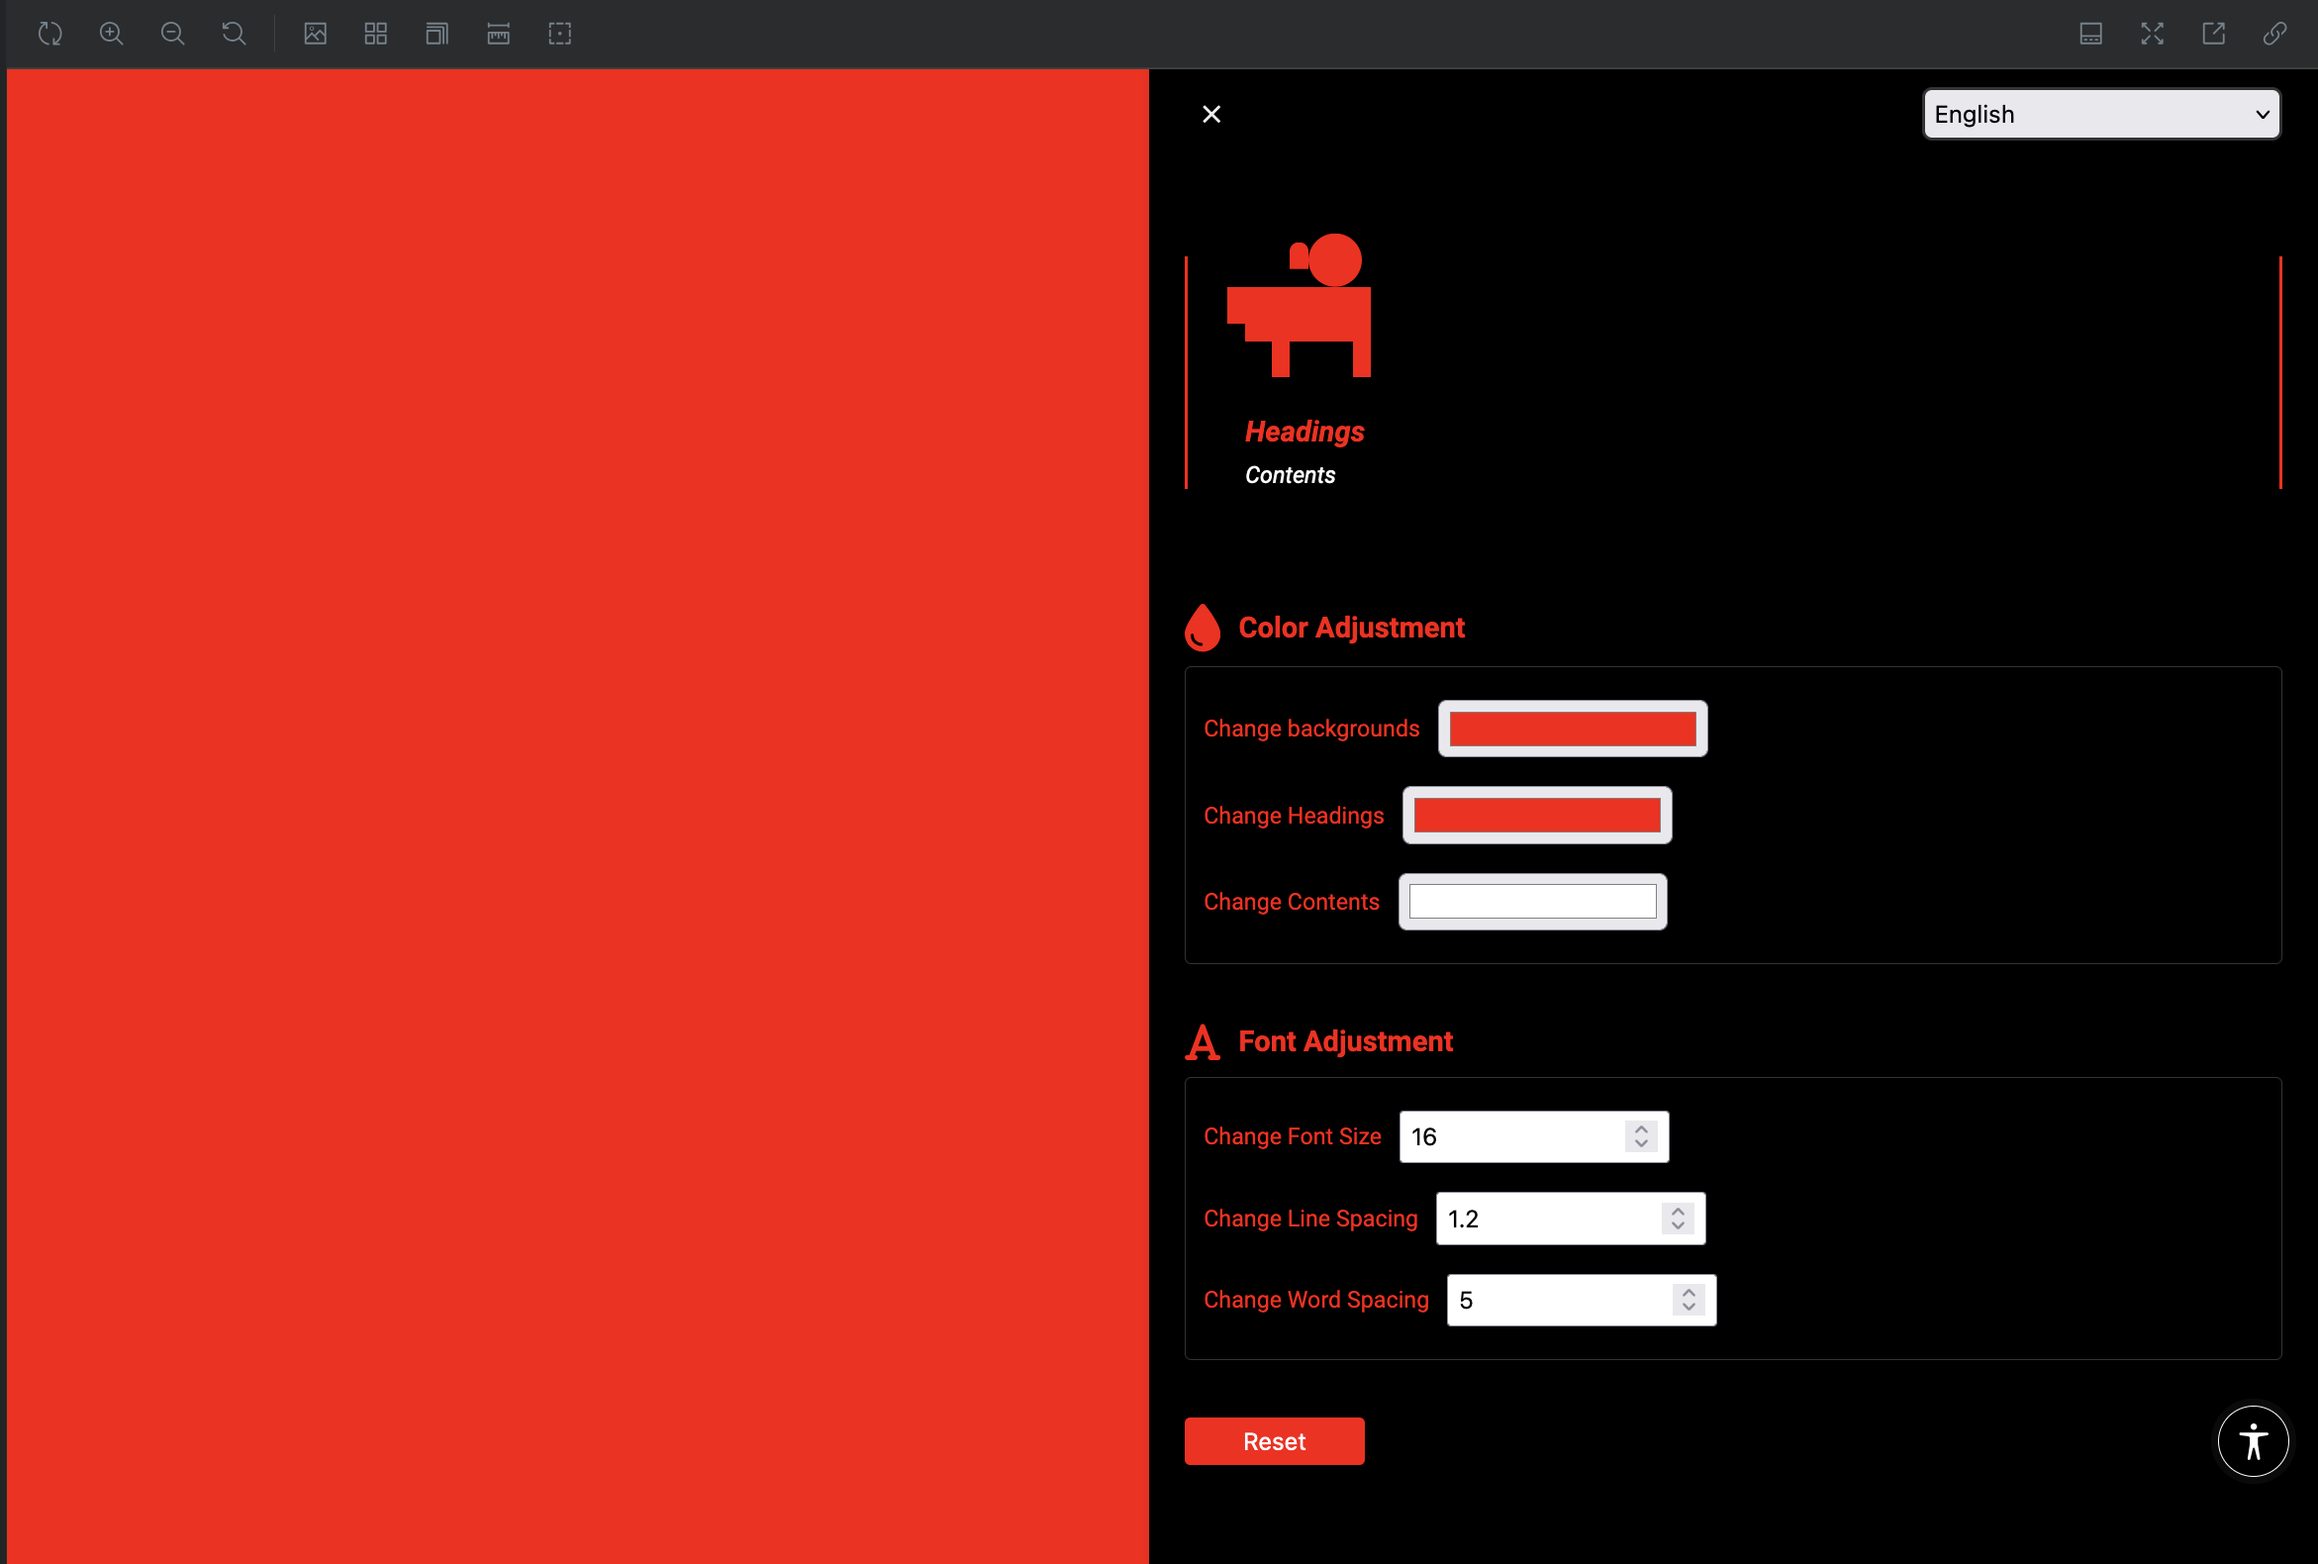
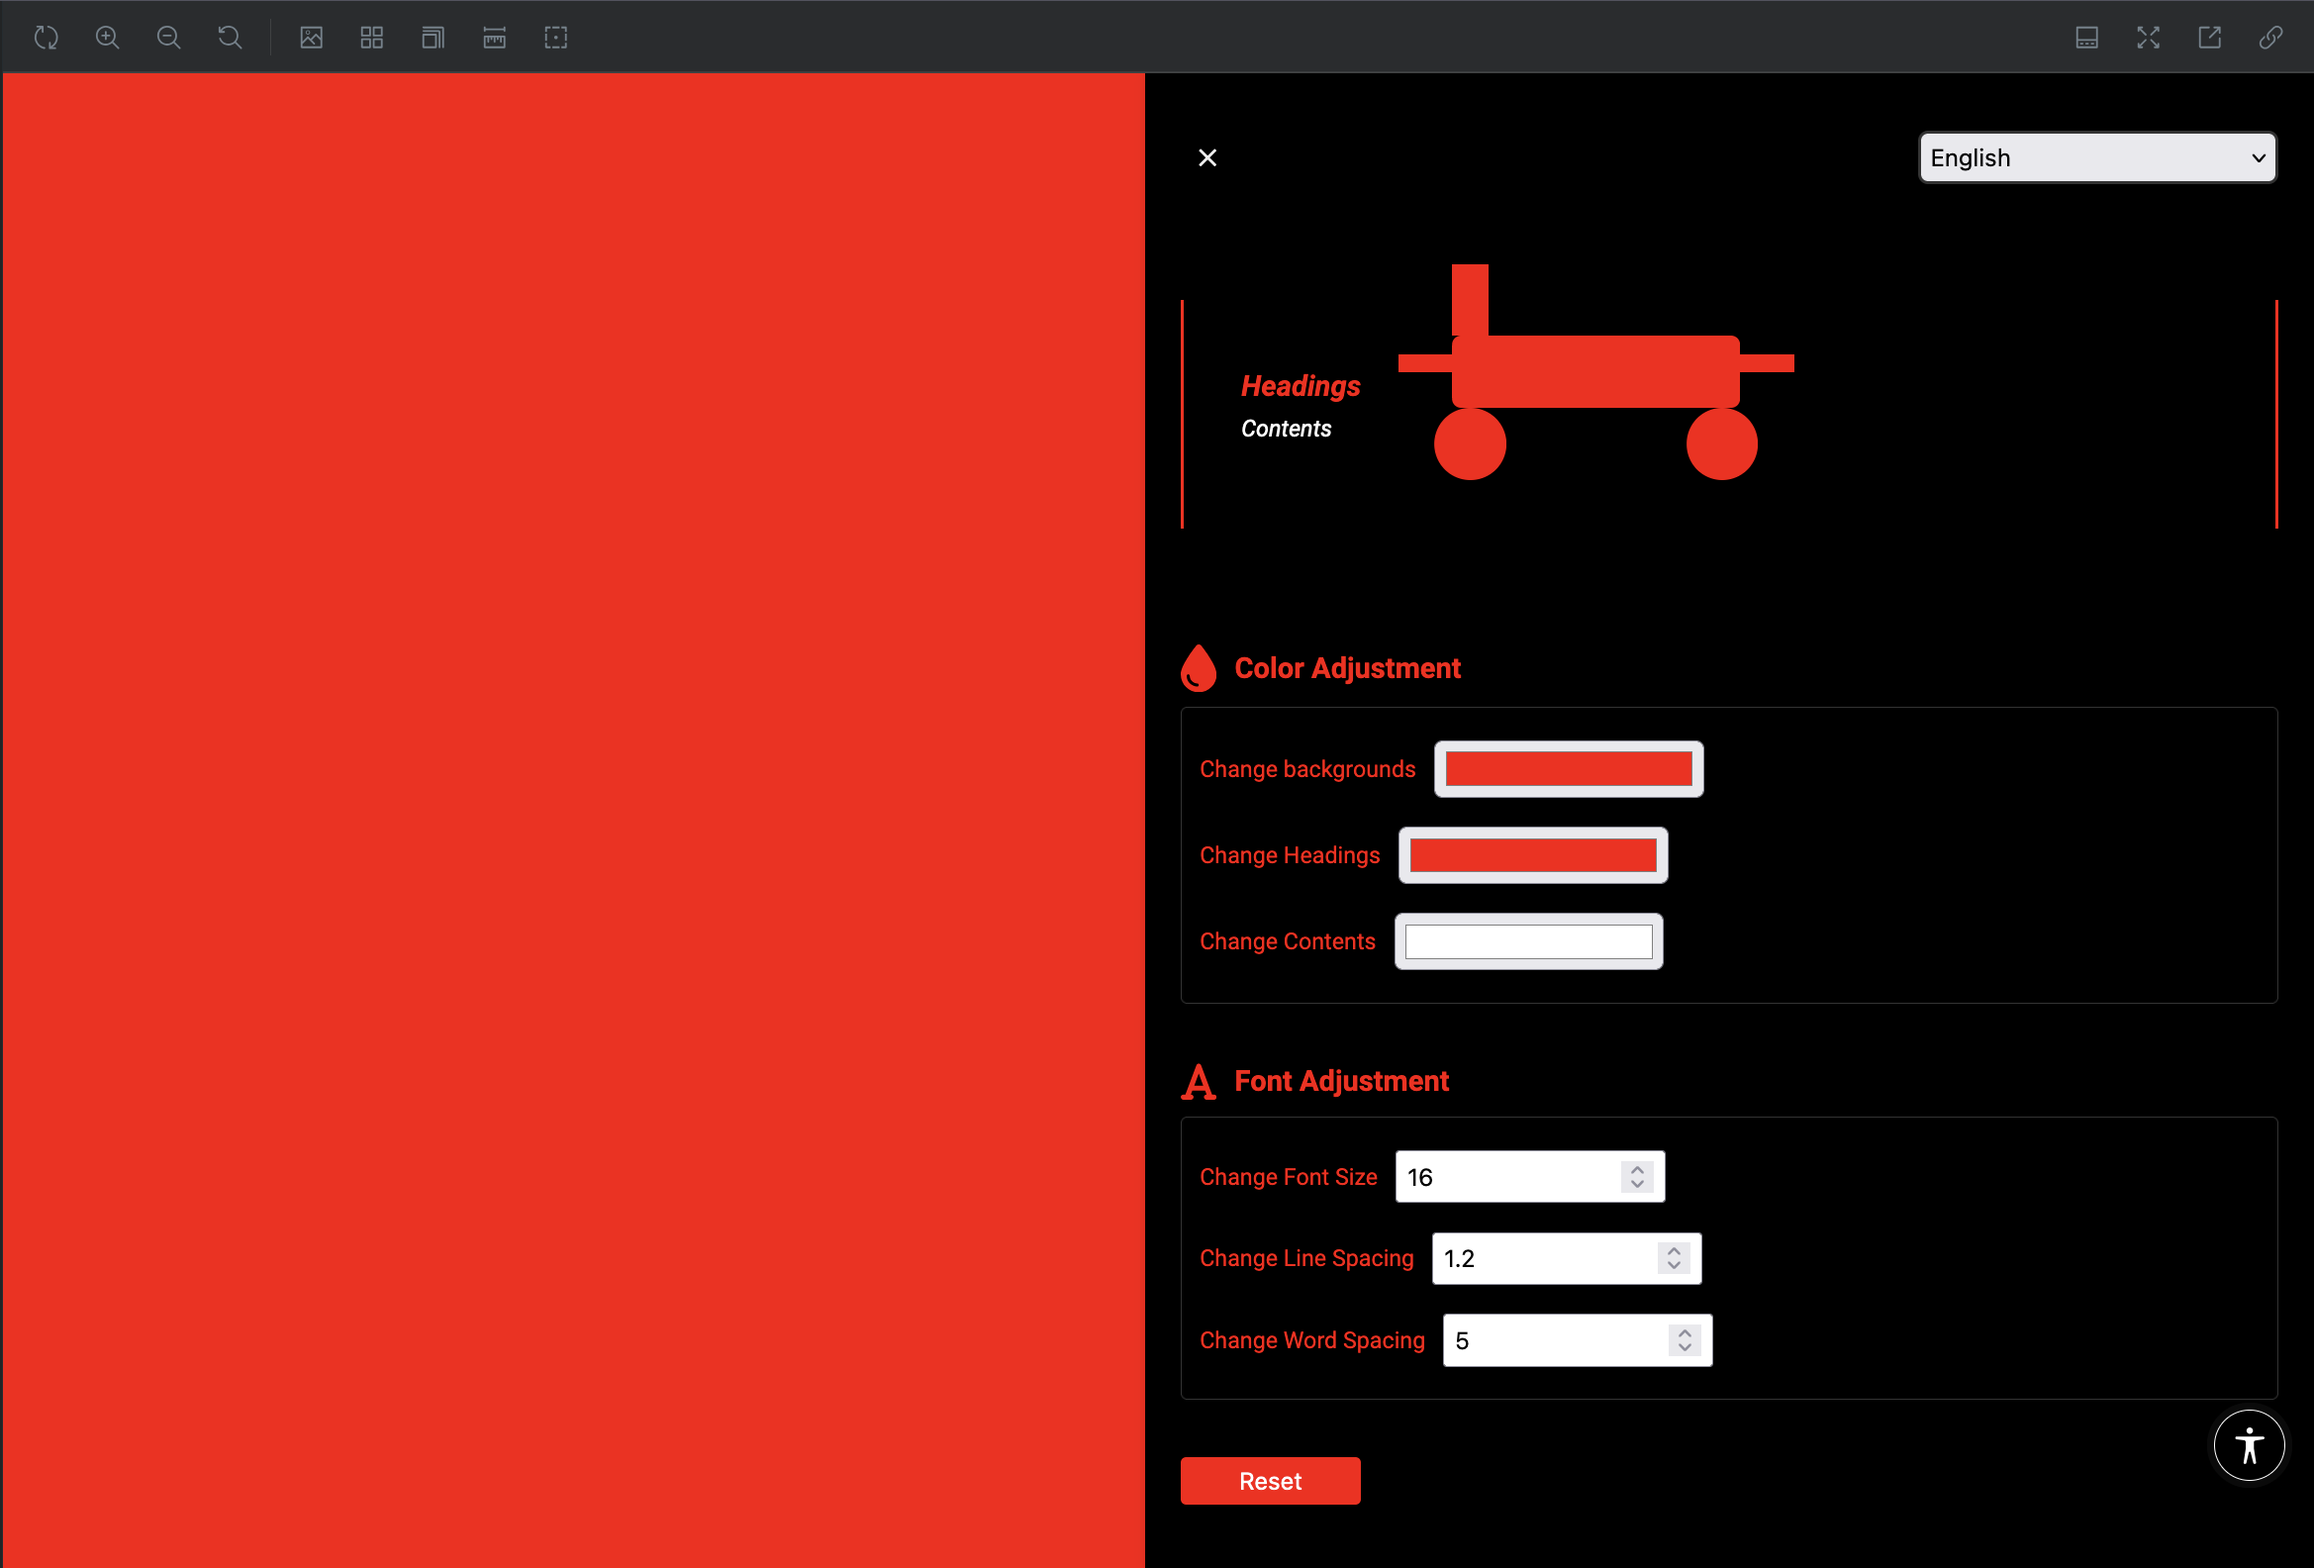
update: change background from dog to a wheelchair

diff --git a/src/components/overview/index.styles.css b/src/components/overview/index.styles.css
@@ -1,81 +1,69 @@
-.container {
-  position: relative;
-  margin: 4rem 0;
-  padding: 0 2rem;
+.overview {
   border-right: solid 0.125rem var(--react-a11y-config-background-color);
   border-left: solid 0.125rem var(--react-a11y-config-background-color);
+  padding: 0 2rem;
+  margin: 4rem 0;
+  display: flex;
+  gap: 2rem;
 }
 
-.dog {
+.wheelchair {
   position: relative;
-  width: 6.25rem;
-  height: 3.125rem;
-  animation: jump 1s infinite;
+  width: 12.5rem;
+  height: 6.25rem;
 }
 
-.head {
-  width: 1.875rem;
-  height: 1.875rem;
-  background-color: var(--react-a11y-config-background-color);
-  border-radius: 50%;
+.wheelchair-seat {
   position: absolute;
-  top: -10px;
-  left: 2.1875rem;
+  bottom: 2.5rem;
+  left: 1.25rem;
+  width: 10rem;
+  height: 2.5rem;
+  background-color: var(--react-a11y-config-background-color);
+  border-radius: 0.3125rem;
 }
 
-.ear {
-  width: 0.625rem;
-  height: 0.9375rem;
-  background-color: var(--react-a11y-config-background-color);
+.wheelchair-backrest {
   position: absolute;
-  top: -5px;
-  left: 1.5625rem;
-  border-radius: 0.3125rem 0.3125rem 0 0;
+  bottom: 5rem;
+  left: 1.25rem;
+  width: 1.25rem;
+  height: 2.5rem;
+  background-color: var(--react-a11y-config-background-color);
 }
 
-.body {
-  width: 4.375rem;
-  height: 1.875rem;
-  background-color: var(--react-a11y-config-background-color);
+.wheelchair-wheel {
   position: absolute;
   bottom: 0;
+  width: 2.5rem;
+  height: 2.5rem;
+  background-color: var(--react-a11y-config-background-color);
+  border-radius: 50%;
 }
 
-.tail {
-  width: 0.625rem;
-  height: 1.25rem;
-  background-color: var(--react-a11y-config-background-color);
+.left-wheel {
+  left: 0.625rem;
+}
+
+.right-wheel {
+  right: 0.625rem;
+}
+
+.wheelchair-armrest {
   position: absolute;
-  bottom: 0.625rem;
+  width: 3.75rem;
+  height: 0.625rem;
+  background-color: var(--react-a11y-config-background-color);
+}
+
+.left-armrest {
+  top: 30px;
   left: -10px;
 }
 
-.front-leg {
-  width: 0.625rem;
-  height: 1.25rem;
-  background-color: var(--react-a11y-config-background-color);
-  position: absolute;
-  bottom: -20px;
-  left: 0.9375rem;
-}
-
-.back-leg {
-  width: 0.625rem;
-  height: 1.25rem;
-  background-color: var(--react-a11y-config-background-color);
-  position: absolute;
-  bottom: -20px;
-  left: 3.75rem;
-}
-
-@keyframes jump {
-  0%,
-  100% {
-    transform: translateY(0);
-  }
-  50% {
-    transform: translateY(-30px);
-  }
+.right-armrest {
+  top: 30px;
+  right: -10px;
 }
 
 .heading {
@@ -90,4 +78,5 @@
   font-size: 0.8rem;
   font-style: italic;
   color: var(--react-a11y-config-paragraph-color);
+  margin-bottom: 3rem;
 }

diff --git a/src/components/overview/index.component.tsx b/src/components/overview/index.component.tsx
@@ -4,17 +4,19 @@ import './index.styles.css';
 
 export function Overview() {
   return (
-    <div className="container">
-      <div className="dog">
-        <div className="ear"></div>
-        <div className="head"></div>
-        <div className="body"></div>
-        <div className="tail"></div>
-        <div className="leg front-leg"></div>
-        <div className="leg back-leg"></div>
+    <div className="overview">
+      <div>
+        <h1 className="heading">Headings</h1>
+        <p className="paragraph">Contents</p>
       </div>
-      <h1 className="heading">Headings</h1>
-      <p className="paragraph">Contents</p>
+      <div className="wheelchair">
+        <div className="wheelchair-seat"></div>
+        <div className="wheelchair-backrest"></div>
+        <div className="wheelchair-wheel left-wheel"></div>
+        <div className="wheelchair-wheel right-wheel"></div>
+        <div className="wheelchair-armrest left-armrest"></div>
+        <div className="wheelchair-armrest right-armrest"></div>
+      </div>
     </div>
   );
 }

diff --git a/src/components/config-ui/index.styles.css b/src/components/config-ui/index.styles.css
@@ -11,7 +11,7 @@
   box-shadow: 0.125rem 0 0.25rem rgba(255, 255, 255, 0.1),
     0.25rem 0 0.5rem rgba(0, 0, 0, 0.3), 0.0625rem 0 0 rgba(255, 255, 255, 0.05);
   color: #eee;
-  padding: 0.625rem 1.25rem;
+  padding: 2rem 1.25rem;
   overflow-y: scroll;
   overflow-x: hidden;
 }
